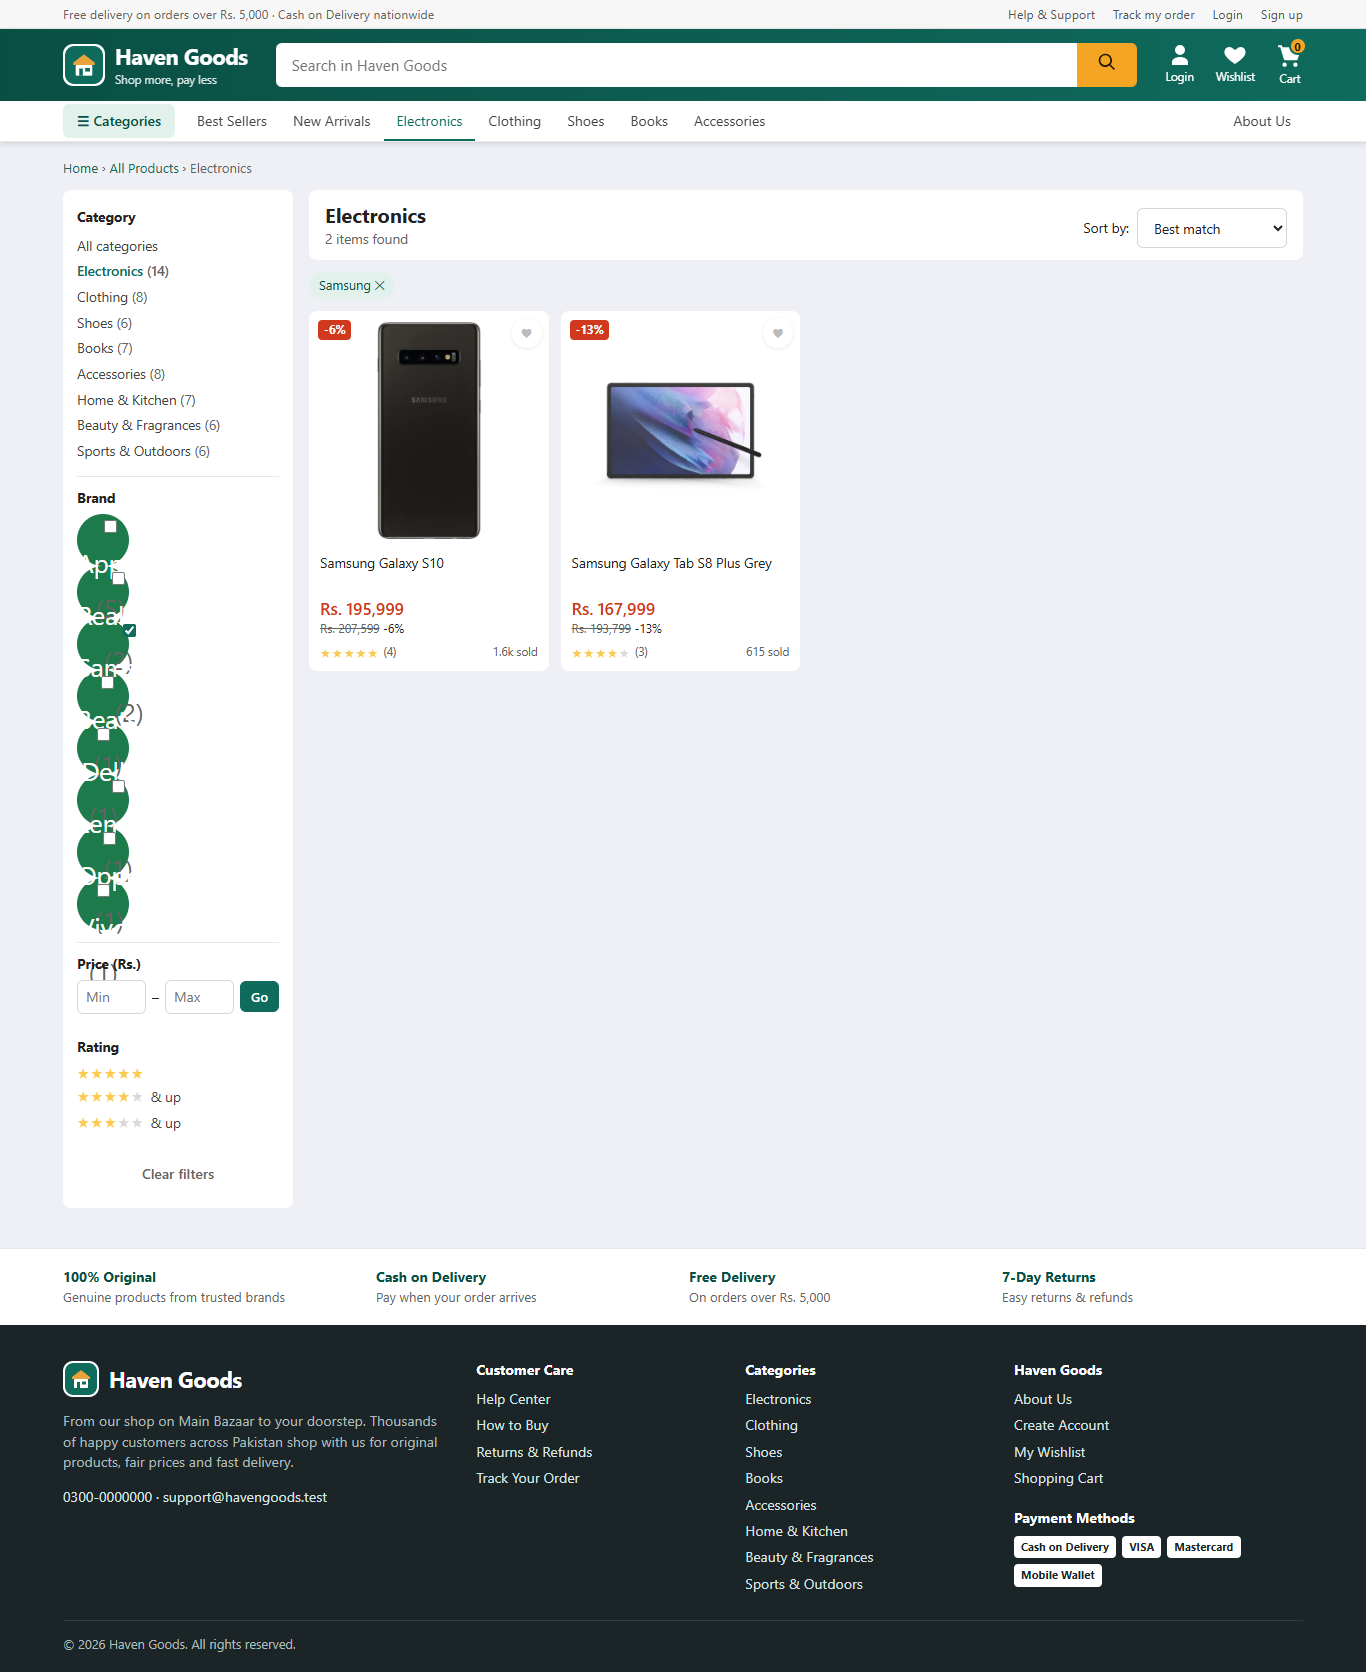
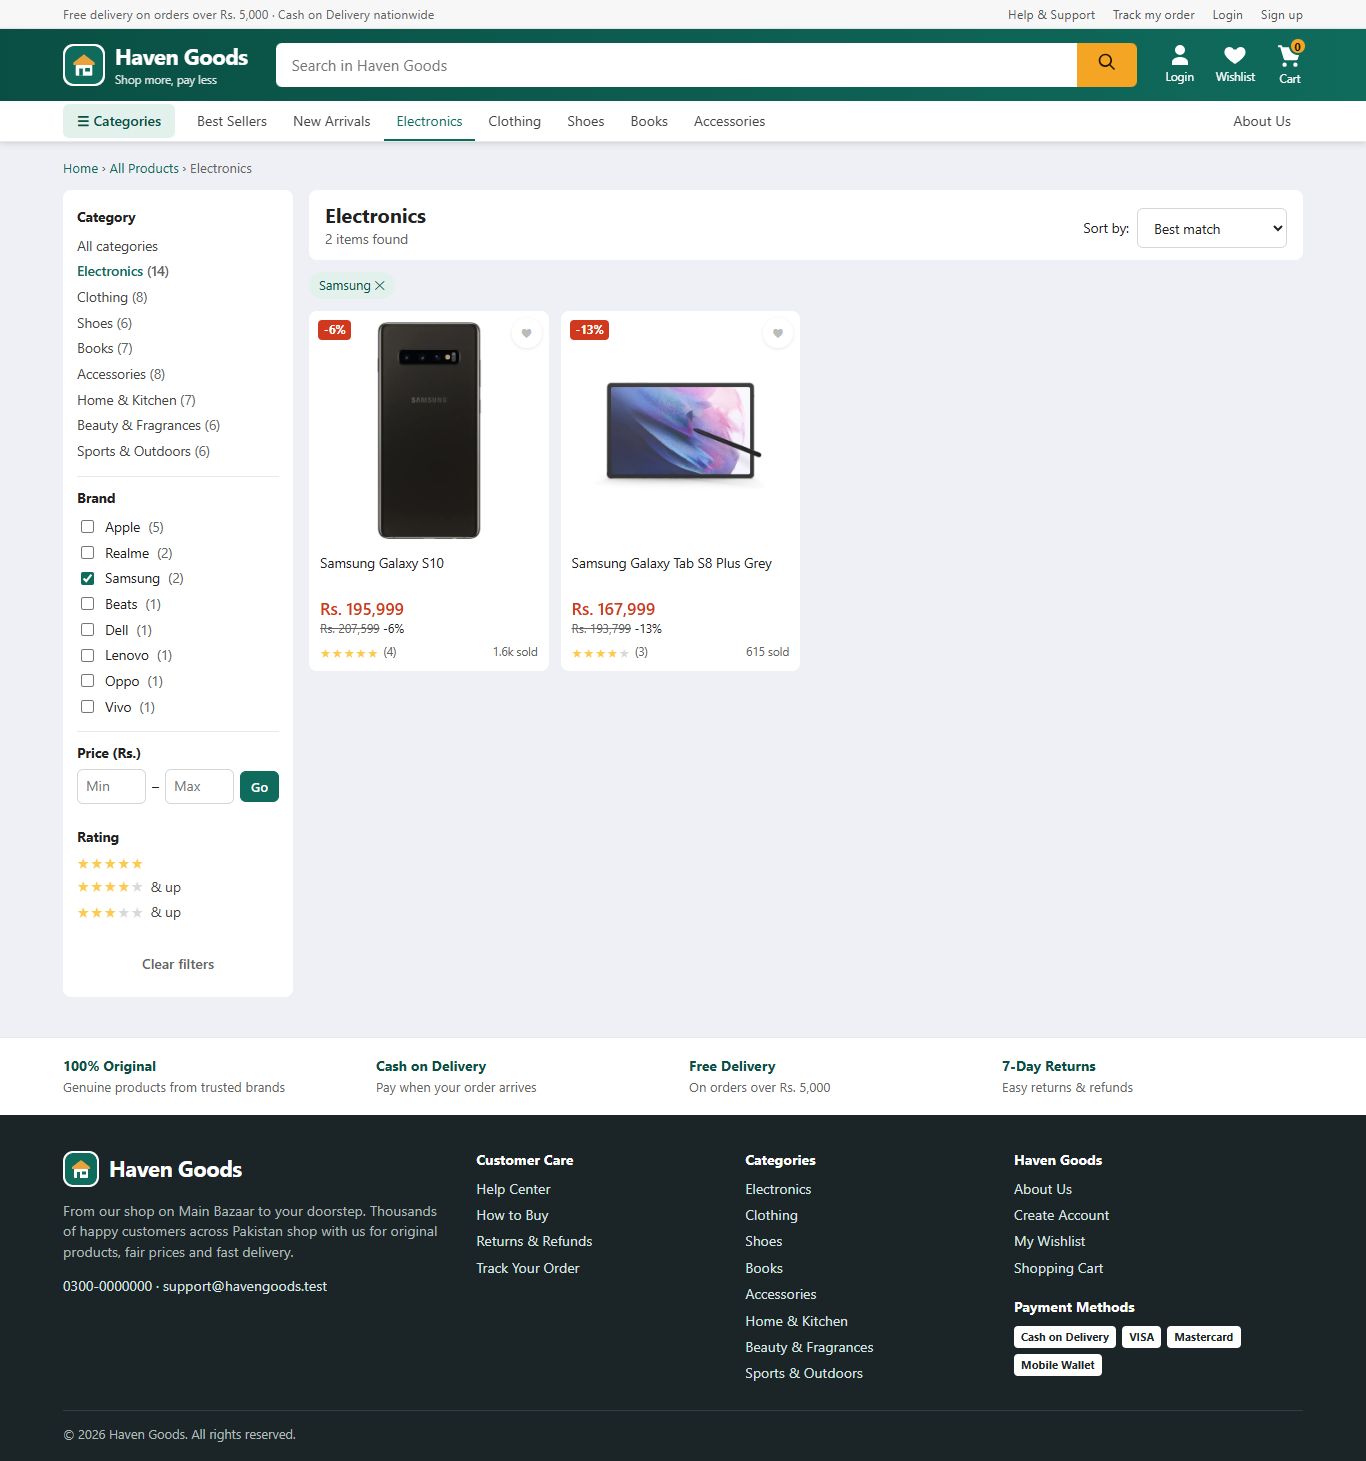
Fix brand filter layout, category bar scrollbar and dropdown on phones
- .check class clash turned brand filter rows into 52px green circles; success icon renamed .success-check
- build check now fails on duplicate stand-alone CSS rules (catches this clash)
- category bar: hide scrollbar, only links scroll so the Categories dropdown is not clipped
- dropdown opens on hover only with a mouse, so a second tap closes it on phones
- active underline for Best Sellers, New Arrivals and About Us

diff --git a/public/css/style.css b/public/css/style.css
@@ -92,16 +92,19 @@ fieldset { border: 0; padding: 0; margin: 0; min-width: 0; }
 .bubble { position: absolute; top: -6px; right: -4px; background: var(--accent); color: var(--on-accent); font-weight: 700; border-radius: 999px; min-width: 18px; height: 18px; font-size: .7rem; display: grid; place-items: center; padding: 0 4px; border: 2px solid var(--brand); }
 .cat-nav { background: #fff; border-bottom: 1px solid var(--line); }
 .cat-nav .container { display: flex; align-items: center; gap: 2px; }
+.cat-links { display: flex; align-items: center; gap: 2px; flex: 1; min-width: 0; }
 .cat-nav a { color: #444; padding: 10px 12px; font-size: .88rem; white-space: nowrap; }
 .cat-nav a:hover, .cat-nav a.active { color: var(--brand); text-decoration: none; }
 .cat-nav a.active { box-shadow: inset 0 -2px 0 var(--brand); }
 .nav-right { margin-left: auto; }
-.cat-menu { position: relative; }
+.cat-menu { position: relative; flex-shrink: 0; }
 .cat-menu-btn { white-space: nowrap; background: var(--brand-soft); color: var(--brand-dark); border: 0; padding: 7px 14px; border-radius: 6px; font-weight: 600; cursor: pointer; margin-right: 8px; }
 .cat-dropdown { display: none; position: absolute; top: 100%; left: 0; background: #fff; box-shadow: var(--shadow); border-radius: 6px; min-width: 220px; padding: 6px 0; z-index: 25; }
 .cat-dropdown a { display: block; padding: 9px 16px; }
 .cat-dropdown a:hover { background: var(--bg); }
-.cat-menu:hover .cat-dropdown, .cat-menu.open .cat-dropdown { display: block; }
+.cat-menu.open .cat-dropdown { display: block; }
+/* Open on hover only where there is a real mouse; on phones a tap "sticks" as hover and the menu could not be closed */
+@media (hover: hover) and (pointer: fine) { .cat-menu:hover .cat-dropdown { display: block; } }
 
 /* ---------------- Buttons & alerts */
 .btn { display: inline-flex; align-items: center; justify-content: center; gap: 6px; background: var(--brand); color: #fff; border: 1px solid var(--brand); padding: 8px 16px; border-radius: 6px; font-weight: 600; cursor: pointer; text-decoration: none; }
@@ -384,7 +387,7 @@ input:disabled { background: #f5f5f5; color: var(--muted); }
 .success-banner { display: flex; gap: 18px; align-items: center; background: #e8f6ee; border: 1px solid #b8dfca; border-radius: var(--radius); padding: 20px 24px; margin-bottom: 16px; }
 .success-banner h1 { margin: 0 0 4px; font-size: 1.4rem; }
 .success-banner p { margin: 0; }
-.check { width: 52px; height: 52px; border-radius: 50%; background: #1d7a4a; color: #fff; display: grid; place-items: center; font-size: 1.6rem; flex-shrink: 0; }
+.success-check { width: 52px; height: 52px; border-radius: 50%; background: #1d7a4a; color: #fff; display: grid; place-items: center; font-size: 1.6rem; flex-shrink: 0; }
 .order-layout { display: grid; grid-template-columns: 1fr 340px; gap: 16px; align-items: start; }
 .order-head { display: flex; justify-content: space-between; align-items: flex-start; margin-bottom: 16px; }
 .order-head h2 { margin: 0; }
@@ -548,7 +551,8 @@ body.admin { background: #f3f4f2; }
   .footer-grid { grid-template-columns: 1fr 1fr; }
   .admin-shell { grid-template-columns: 1fr; }
   .admin-side-inner { position: static; height: auto; }
-  .cat-nav .container { overflow-x: auto; }
+  .cat-links { overflow-x: auto; scrollbar-width: none; -webkit-mask-image: linear-gradient(90deg, #000 85%, transparent); mask-image: linear-gradient(90deg, #000 85%, transparent); }
+  .cat-links::-webkit-scrollbar { display: none; } /* swipe to scroll; no grey scrollbar line */
   .cart-item { grid-template-columns: 70px 1fr; }
   .cart-item .cart-price, .cart-item .stepper, .cart-item .cart-line { grid-column: 2; }
   .cart-line { text-align: left; }

diff --git a/scripts/check.js b/scripts/check.js
@@ -53,7 +53,30 @@ const missing = [...refs].filter((p) => !fs.existsSync(path.join(ROOT, 'public',
 missing.forEach((p) => fail(`missing asset ${p}`));
 ok(`${refs.size} asset references checked`);
 
-// 5. The app module loads (catches broken requires) without starting a server
+// 5. CSS: the same selector must not have two separate stand-alone rules outside
+//    @media. That usually means two features reuse one class name by accident
+//    (e.g. ".check" for filter checkboxes and for the order-success tick).
+{
+  const css = fs.readFileSync(path.join(ROOT, 'public', 'css', 'style.css'), 'utf8').replace(/\/\*[\s\S]*?\*\//g, '');
+  const alone = new Map();
+  let depth = 0; let buf = ''; let line = 1;
+  for (const ch of css) {
+    if (ch === '\n') line++;
+    if (ch === '{') {
+      const sel = buf.trim();
+      if (depth === 0 && sel && !sel.startsWith('@') && !sel.includes(',')) {
+        if (!alone.has(sel)) alone.set(sel, []);
+        alone.get(sel).push(line);
+      }
+      depth++; buf = '';
+    } else if (ch === '}') { depth--; buf = ''; } else if (depth === 0) buf += ch;
+  }
+  const dupes = [...alone].filter(([, lines]) => lines.length > 1);
+  dupes.forEach(([sel, lines]) => fail(`style.css defines "${sel}" in separate rules (lines ${lines.join(', ')}) – possible class name clash`));
+  if (!dupes.length) ok(`style.css: ${alone.size} selectors, no class name clashes`);
+}
+
+// 6. The app module loads (catches broken requires) without starting a server
 try {
   require(path.join(ROOT, 'server.js'));
   ok('server.js and all routes load');

diff --git a/WEBSITE_AUDIT_REPORT.md b/WEBSITE_AUDIT_REPORT.md
@@ -8,8 +8,8 @@
 | **Audited code** | `main` @ `851c4f8` (currently live) |
 | **Fixes on branch** | `audit/production-hardening` (local, **not pushed and not deployed** – see section 13) |
 
-**Summary.** The whole project was inspected file by file and tested in a real browser at 7 screen sizes, plus an end-to-end shopping test and a 35-check security test. **60 issues** were found: **0 Critical, 6 High, 24 Medium, 30 Low**.
-- **56 were fixed** (all 6 High, 22 Medium, 28 Low). 55 of these are verified; 1 (smaller Vercel bundle, P6) can only be confirmed by a Vercel build.
+**Summary.** The whole project was inspected file by file and tested in a real browser at 7 screen sizes, plus an end-to-end shopping test and a 35-check security test. **65 issues** were found: **0 Critical, 7 High, 26 Medium, 32 Low**. This includes 5 layout bugs (R6–R10) found after the owner tested the preview on a phone.
+- **61 were fixed** (all 7 High, 24 Medium, 30 Low). 60 of these are verified; 1 (smaller Vercel bundle, P6) can only be confirmed by a Vercel build.
 - **4 remain**, because they need an external service or account: a hosted database, an email service, a shared rate-limit store and a payment gateway. They are documented in section 13.
 
 Every automated check now passes. The only step that could not be verified is a real Vercel build: Vercel's command-line tool has a bug on this Windows computer, so a preview deployment is needed (with your permission).
@@ -135,6 +135,11 @@ Severity scale: **Critical** – data loss or full compromise · **High** – se
 | R3 | On phones the filter column pushed products far below the screen | Medium | Sidebar stacked above results | Filters become a collapsible "Filters" panel on small screens (closed unless a filter is active, with a count badge) | ✅ 320 px screenshot |
 | R4 | Top utility links wrapped onto two lines at 320 px | Low | Too many links for the width | Help link hidden on small phones (still in the footer), no wrapping | ✅ CSS + browser audit |
 | R5 | Images without width/height (layout shift while loading) | Low | Missing attributes | Width/height on product, gallery, category, brand, cart and order images | ✅ code review |
+| R6 | **Brand filter rendered as overlapping 52px green circles** with unreadable names, on phones *and* desktop (also on the current live site). *Found by the site owner testing the preview on a phone* | High | **Class name clash**: `.check` was used for the filter checkbox rows and for the ✓ circle on the order-success page; the later rule overrode the first | Success icon renamed `.success-check`. New `npm run check` step fails the build when a selector has two separate stand-alone rules, and it flags this exact clash in the old stylesheet | ✅ brand rows now 26 px tall (were ~104 px) at 360 px and 1366 px; screenshots; check catches the clash |
+| R7 | Grey line under the category bar on phones | Low | It was the bar's horizontal scrollbar, which Android always shows | Scrollbar hidden (still swipeable); a fade on the right edge hints that more links follow | ✅ scrollbar height 0 px; screenshot |
+| R8 | On phones the **Categories dropdown was cut off** | Medium | The dropdown was inside the sideways-scrolling bar, and scroll containers clip their content | Only the links scroll now (`.cat-links`); the Categories menu sits outside the scrolling area | ✅ dropdown fully visible (335 px), not clipped |
+| R9 | On phones the **Categories menu could not be closed** by tapping it again | Medium | The menu also opened on `:hover`, and touch screens keep the hover state after a tap | Hover-to-open only on devices with a mouse (`@media (hover: hover) and (pointer: fine)`) | ✅ tested: tap opens, tap again closes, tap outside closes; desktop hover still works |
+| R10 | Category bar underline did not mark "Best Sellers", "New Arrivals" or "About Us" when on those pages | Low | Active state only checked categories | Active state + `aria-current` for all bar links | ✅ checked: Best Sellers, New Arrivals, About Us and Clothing each underlined on their own page |
 
 Result: **no horizontal scrolling, overlapping, broken image or console error on any of the 30 pages at 320, 375, 414, 768, 1024, 1366 or 1440 px.**
 
@@ -201,7 +206,7 @@ See 4.3 and 4.4. All pages now have one `<h1>`, a page title and a meta descript
 | Check | Result |
 |---|---|
 | `npm run lint` (ESLint) | ✅ 0 errors, 0 warnings (baseline: 1 error) |
-| `npm run check` (build check) | ✅ 27 templates, 31 renders, database loads (62 products, 225 reviews…), no FK errors, 173 assets |
+| `npm run check` (build check) | ✅ 27 templates, 31 renders, database loads (62 products, 225 reviews…), no FK errors, 173 assets, no CSS class clashes (new) |
 | `npm audit` (production and dev) | ✅ 0 vulnerabilities (baseline: 9 high in dev tools) |
 | `npm run audit:browser` – 210 page views | ✅ 0 issues (baseline: 34 issues) |
 | `npm test` – end-to-end shopping + admin flow | ✅ all steps pass, 26 screenshots |
